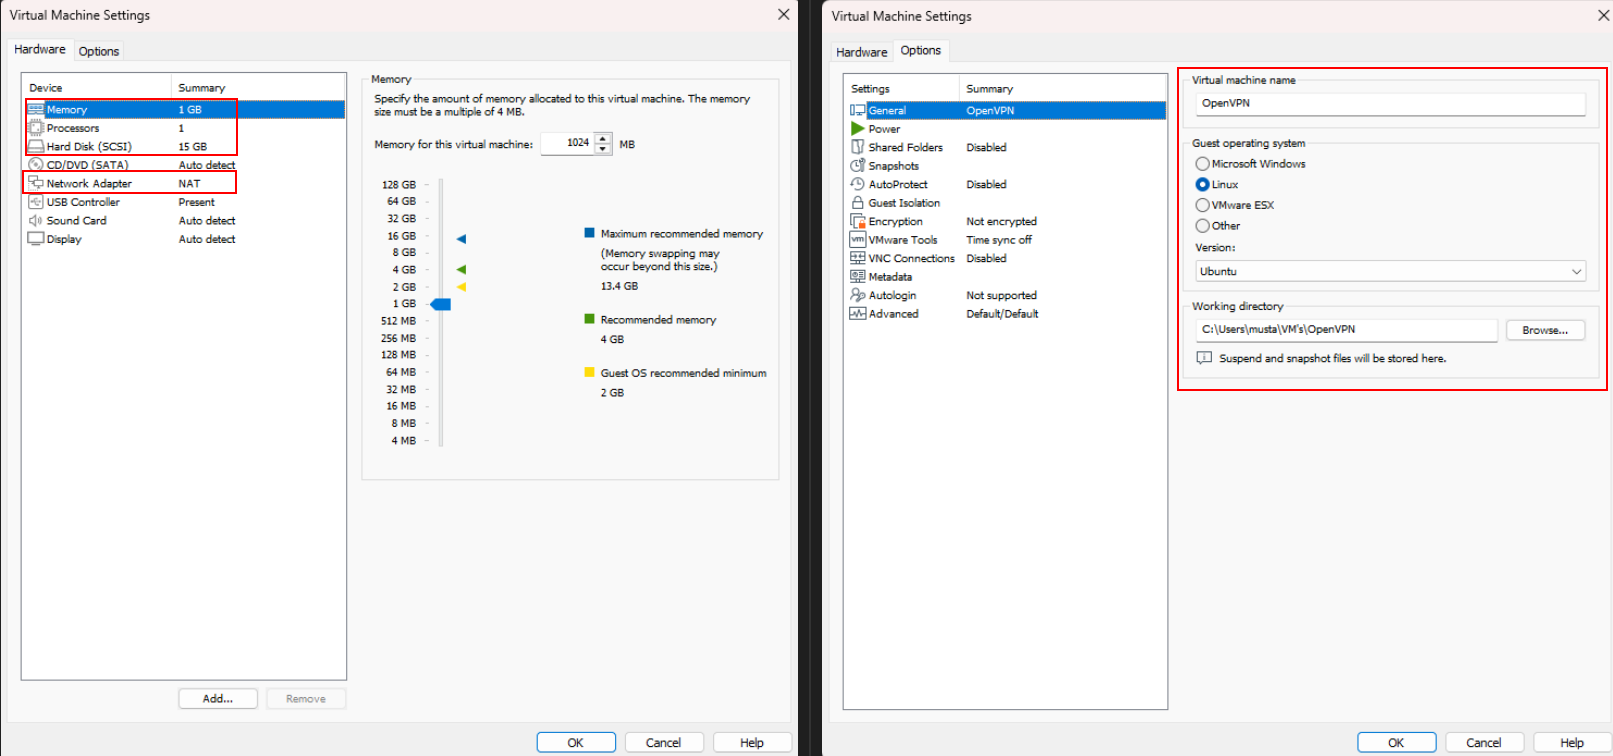
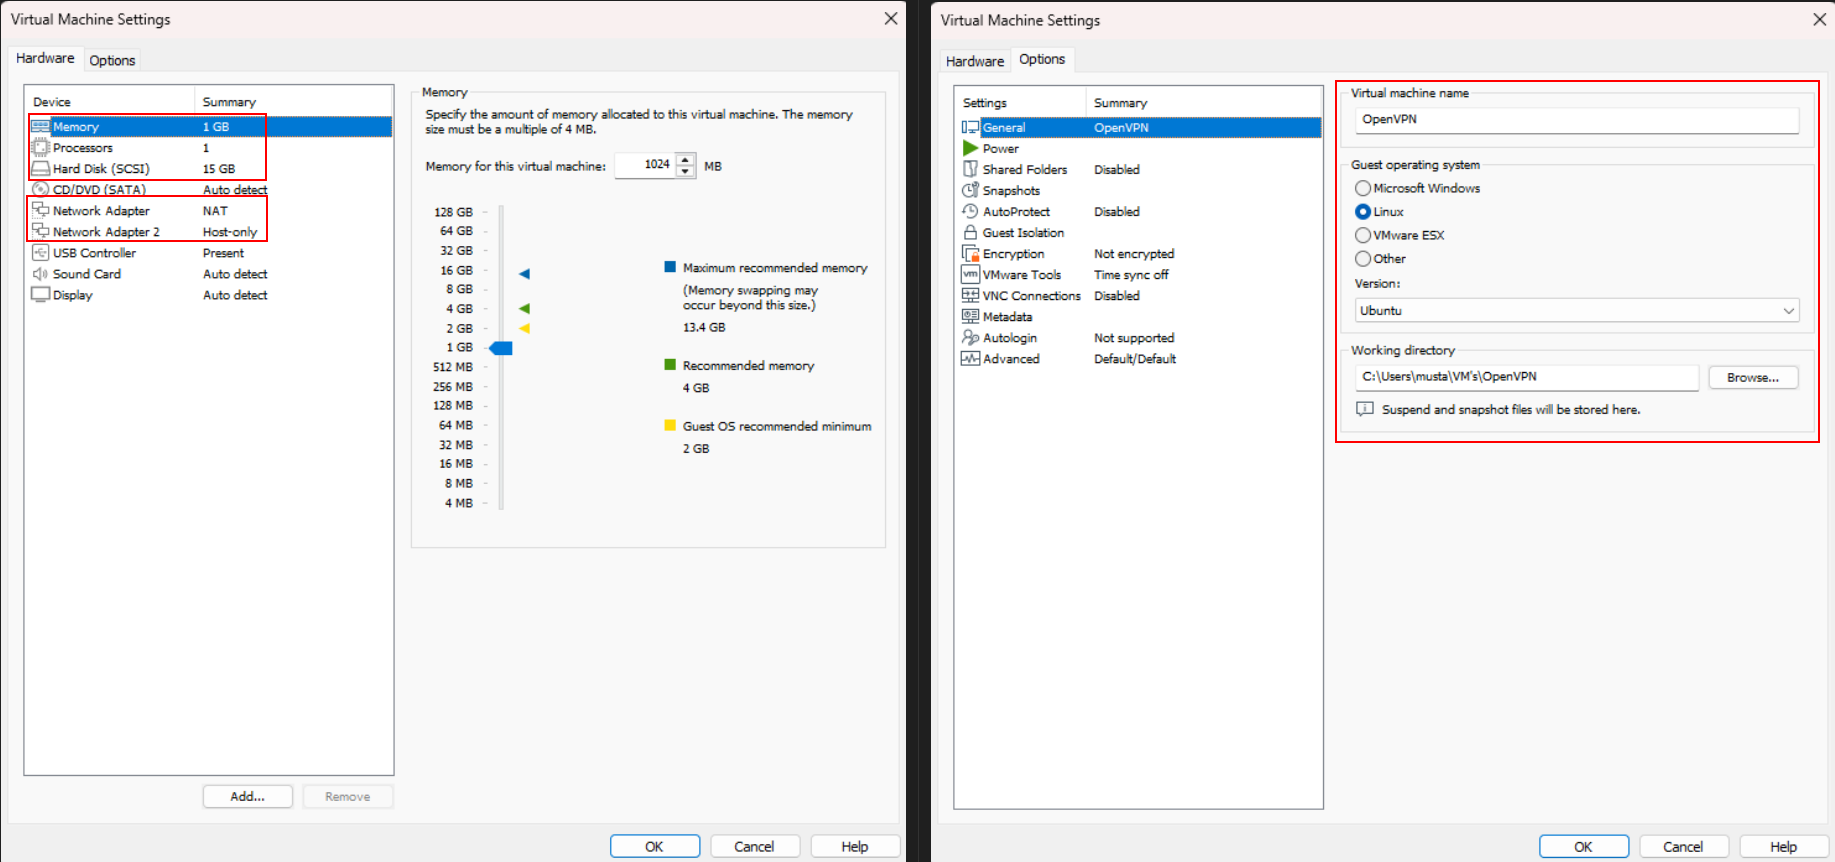
update

diff --git a/infra/network-configuration.md b/infra/network-configuration.md
@@ -1,10 +1,221 @@
-# Network Configuration Notes
+# Network Configuration
 
-## Segmentation Goals
-- Isolate key services
-- Control access through intended paths only
+## Overview
 
-## Required Rules
-- Endpoint to AD and Splunk communication
-- VPN ingress controls
-- Administrative access restrictions
+This document defines the network design and connectivity configuration used in the Enterprise SOC Monitoring & Incident Response Home Lab.
+
+The lab consists of an isolated internal VMware network, a NAT network for internet access, and an OpenVPN network used to simulate remote attacker access from AWS.
+
+---
+
+## Network Segments
+
+| Network              | CIDR            | Purpose                             |
+| -------------------- | --------------- | ----------------------------------- |
+| Internal Lab Network | 192.168.10.0/24 | Communication between lab systems   |
+| OpenVPN Network      | 10.8.0.0/24     | Remote VPN access                   |
+| NAT Network          | VMware Managed  | Internet access and package updates |
+
+---
+
+## Host-Only Network Configuration
+
+### Network
+
+```text
[phone redacted].0/24
+```
+
+### Purpose
+
+The Host-Only network provides isolated communication between internal lab systems without exposing them directly to the internet.
+
+### Connected Systems
+
+| Host                          | IP Address    |
+| ----------------------------- | ------------- |
+| Splunk Server                 | 192.168.10.10 |
+| Windows 10 Endpoint           | 192.168.10.20 |
+| Active Directory Server       | 192.168.10.30 |
+| OpenVPN Server (Internal NIC) | 192.168.10.40 |
+
+### Services
+
+* Active Directory Authentication
+* DNS Resolution
+* Splunk Log Collection
+* Endpoint Telemetry
+* Internal Host Communication
+
+---
+
+## NAT Network Configuration
+
+### Purpose
+
+The NAT network provides internet connectivity for selected systems while maintaining isolation from the internal lab network.
+
+### Connected Systems
+
+| Host           | Interface |
+| -------------- | --------- |
+| Splunk Server  | NIC 1     |
+| OpenVPN Server | NIC 1     |
+
+### Usage
+
+* Ubuntu package updates
+* Splunk package downloads
+* OpenVPN installation and updates
+* Administrative internet access
+
+### Addressing
+
+IP addresses are assigned dynamically through VMware NAT DHCP services.
+
+---
+
+## OpenVPN Network Configuration
+
+### Network
+
+```text
+10.8.0.0/24
+```
+
+### Purpose
+
+Provides secure encrypted connectivity between the AWS-hosted Kali Linux attacker machine and the internal lab environment.
+
+### Connected Systems
+
+| Host             | IP Address |
+| ---------------- | ---------- |
+| OpenVPN Server   | 10.8.0.1   |
+| Kali Linux (AWS) | 10.8.0.2   |
+
+---
+
+## Routing Design
+
+### Traffic Flow
+
+```text
+Kali Linux (AWS)
+        |
+        | OpenVPN Tunnel
+        v
+OpenVPN Server
+        |
+        | Route
+        v
[phone redacted].0/24
+        |
+        +--> Windows 10 Endpoint
+        |
+        +--> Active Directory Server
+        |
+        +--> Splunk Server
+```
+
+### Routing Objectives
+
+* Allow VPN clients to access internal lab systems.
+* Maintain isolation between the internet and internal network.
+* Enable centralized log collection by Splunk.
+* Support attack simulation and incident investigation workflows.
+
+---
+
+## VMware Adapter Assignment
+
+| Host                    | NIC 1     | NIC 2     |
+| ----------------------- | --------- | --------- |
+| Splunk Server           | NAT       | Host-Only |
+| Windows 10 Endpoint     | Host-Only | N/A       |
+| Active Directory Server | Host-Only | N/A       |
+| OpenVPN Server          | NAT       | Host-Only |
+
+---
+
+## Connectivity Validation
+
+After deployment, validate connectivity using the following tests.
+
+### Internal Network Connectivity
+
+#### From Windows 10
+
+```powershell
+ping 192.168.10.10
+ping 192.168.10.30
+ping 192.168.10.40
+```
+
+#### From Splunk Server
+
+```powershell
+ping 192.168.10.20
+ping 192.168.10.30
+ping 192.168.10.40
+```
+
+#### From Active Directory Server
+
+```powershell
+ping 192.168.10.10
+ping 192.168.10.20
+ping 192.168.10.40
+```
+
+---
+
+## Internet Connectivity Validation
+
+### Splunk Server
+
+```powershell
+ping 8.8.8.8
+ping google.com
+```
+
+### OpenVPN Server
+
+```powershell
+ping 8.8.8.8
+ping google.com
+```
+
+Expected Result:
+
+* Successful internet connectivity through VMware NAT.
+* Successful DNS resolution.
+
+---
+
+## VPN Connectivity Validation
+
+After OpenVPN deployment:
+
+### From Kali Linux
+
+```zsh
+ping 10.8.0.1
+ping 192.168.10.20
+ping 192.168.10.30
+```
+
+Expected Result:
+
+* VPN tunnel established successfully.
+* Internal lab systems reachable through routed VPN access.
+
+---
+
+## Security Design Notes
+
+* Internal enterprise systems remain isolated on the Host-Only network.
+* Internet access is restricted to systems requiring updates and external connectivity.
+* OpenVPN acts as the controlled entry point into the lab environment.
+* Splunk receives telemetry from internal systems through the isolated network.
+* Network segmentation supports realistic SOC monitoring and investigation scenarios.